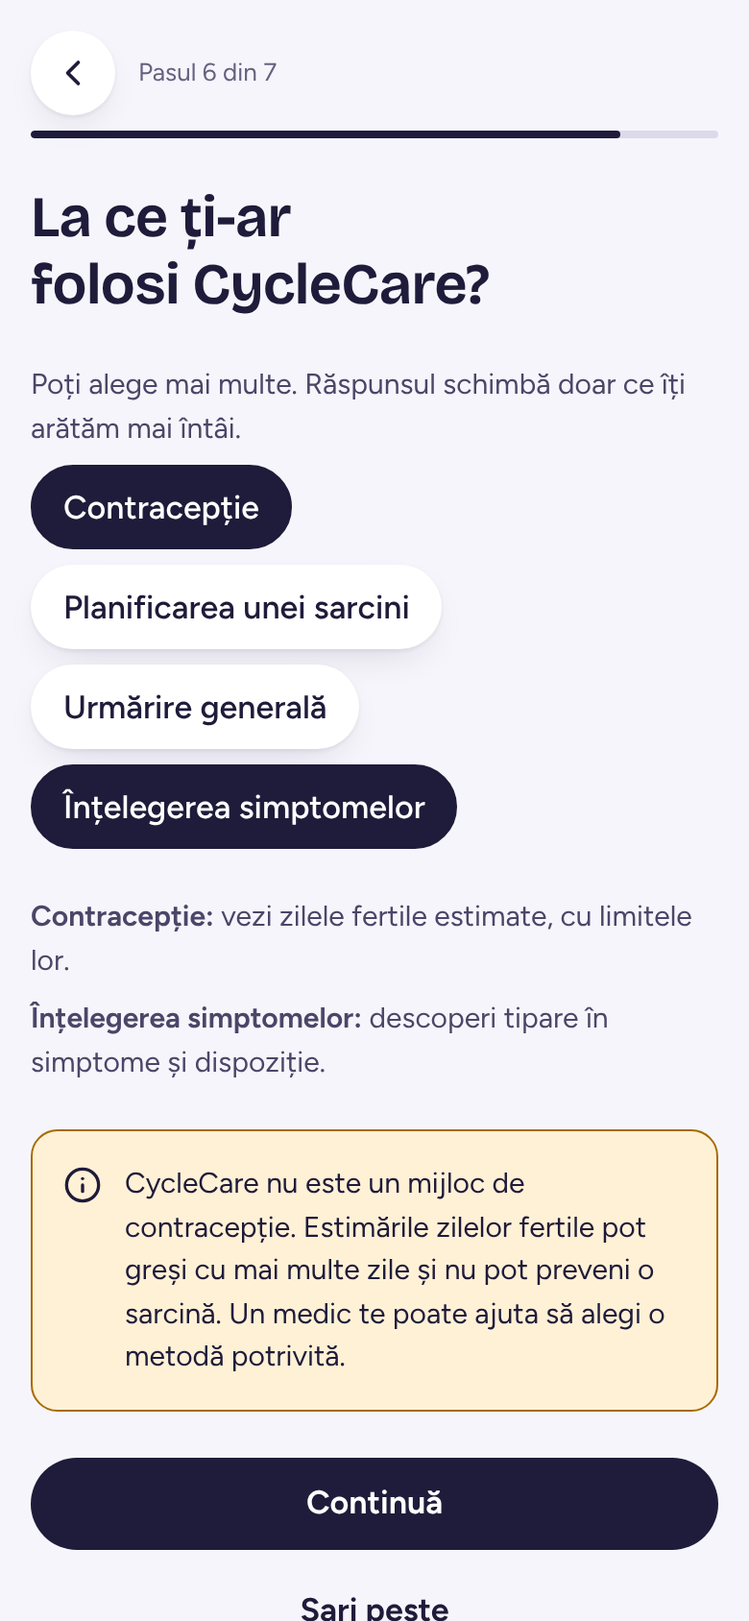
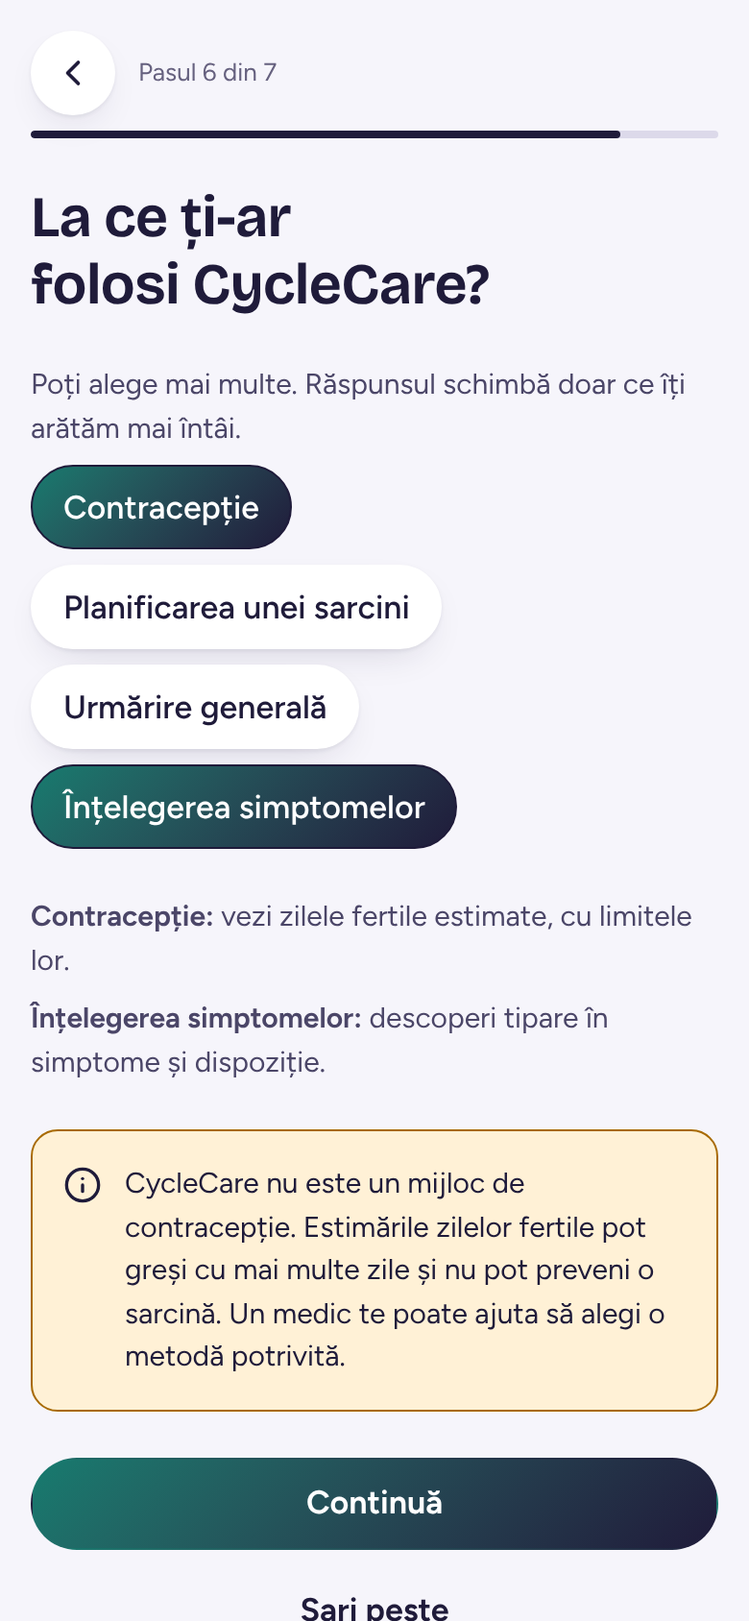
Make the gradient green, let the tab highlight glide, ring the next-period badge
The gradient on the primary button and chosen options now runs from a
green-teal (80% follicular green, 20% ink) into ink, the same in every
phase; token tests check the text on it at AA. The tab highlight is one
element that glides to the chosen tab, placed from the measured position
of the icon so it also works in the side rail. The next-period card gets
a ring round its badge showing how far the cycle has gone, drawn with the
dial's stroke animation. A long heading word may now break instead of
widening the card at the largest text size on a small phone.

Claude-Session: https://claude.ai/code/session_01YK9ibq7sAAhBnBr8T6xBgt

Changed region(s): [[0.0308, 0.8934, 0.8, 0.955], [0.0308, 0.4621, 0.5231, 0.5237], [0.0308, 0.2773, 0.3692, 0.3389]]

diff --git a/cyclecare/src/styles/depth.css b/cyclecare/src/styles/depth.css
@@ -9,13 +9,12 @@
 :root {
   --shadow-raised: 0 1px 2px color-mix(in srgb, var(--ink) 7%, transparent), 0 8px 22px -10px color-mix(in srgb, var(--ink) 20%, transparent);
   --shadow-hero: 0 2px 4px color-mix(in srgb, var(--ink) 6%, transparent), 0 18px 40px -16px color-mix(in srgb, var(--ink) 34%, transparent);
-  --ink-gradient: linear-gradient(155deg, var(--ink) 0%, var(--ink) 100%);
+  --ink-gradient: linear-gradient(135deg, color-mix(in srgb, var(--ink) 20%, var(--follicular)) 0%, var(--ink) 100%);
 }
-/* A custom property that holds var(--phase-c) is worked out where it is declared, so the two that use the
-   phase colour are declared again on .app, where it is set; on :root they are plain ink. */
+/* A custom property that holds var(--phase-c) is worked out where it is declared, so the shadow of the hero
+   card is declared again on .app, where the phase colour is set; on :root it is plain ink. */
 html[data-phase] .app {
   --shadow-hero: 0 2px 4px color-mix(in srgb, var(--ink) 6%, transparent), 0 18px 40px -16px color-mix(in srgb, var(--phase-c) 34%, transparent);
-  --ink-gradient: linear-gradient(155deg, color-mix(in srgb, var(--ink) 55%, var(--phase-c)) 0%, var(--ink) 90%);
 }
 
 /* ---------------------------------------------------------------- phase on the page */
@@ -57,12 +56,11 @@ html[data-phase] .app {
 
 /* ---------------------------------------------------------------- a small gradient on what is chosen
 
-   The dark "ink" of the primary button, the current tab and every selected choice is no longer one flat
-   colour: it starts 45% toward the colour of the current phase (the ink itself where there is none) and
-   settles into plain ink. The text on top keeps its contrast with the lightest end (checked in tokens.test.ts). */
+   The dark "ink" of the primary button and of every selected choice is no longer one flat colour: it runs
+   from a green-teal (80% of the follicular green, 20% ink) into plain ink. The green is the app's accent and
+   the same in every phase. The text on top keeps its contrast with the lightest end (tokens.test.ts). */
 
 .btn-primary,
-.tab[aria-current='page'] .tab-icon,
 .chip input:checked + .chip-face,
 .scale input:checked + .scale-face,
 .segmented input:checked + .segmented-face,
@@ -118,7 +116,6 @@ html[data-phase] .app {
     background: var(--surface);
   }
   .btn-primary,
-  .tab[aria-current='page'] .tab-icon,
   .chip input:checked + .chip-face,
   .scale input:checked + .scale-face,
   .segmented input:checked + .segmented-face,
@@ -139,7 +136,6 @@ html[data-phase] .app {
   }
   /* The system's own highlight colour, not a gradient. */
   .btn-primary,
-  .tab[aria-current='page'] .tab-icon,
   .chip input:checked + .chip-face,
   .scale input:checked + .scale-face,
   .segmented input:checked + .segmented-face,
@@ -426,4 +422,94 @@ html[data-phase] .app {
 .capy-full.empty-mascot {
   width: min(11rem, 62%);
   margin-inline: auto;
+}
+
+/* ---------------------------------------------------------------- the tab highlight glides
+
+   One highlight, behind the icons, that moves to the tab you pick instead of switching off on one and on
+   on the next. It is placed from the measured position of the current icon (Shell.tsx), so it is right in
+   the pill at the bottom of a phone and in the side rail of a wide screen. */
+
+.tabbar ul {
+  position: relative;
+}
+.tab-indicator {
+  position: absolute;
+  top: 0;
+  left: 0;
+  border-radius: var(--r-pill);
+  background-color: var(--ink);
+  background-image: var(--ink-gradient);
+  pointer-events: none;
+  transition: transform 0.5s var(--ease-spring);
+}
+.tab .tab-icon {
+  position: relative;
+  z-index: 1;
+}
+.tab[aria-current='page'] .tab-icon {
+  background: none;
+  color: var(--on-ink);
+}
+@media (prefers-contrast: more) {
+  .tab-indicator {
+    background-image: none;
+  }
+}
+@media (forced-colors: active) {
+  .tab-indicator {
+    background: Highlight;
+    forced-color-adjust: none;
+  }
+  .tab[aria-current='page'] .tab-icon {
+    color: HighlightText;
+  }
+}
+
+/* ---------------------------------------------------------------- progress round the badge
+
+   On the next-period card the badge has a ring that shows how far this cycle has gone. The arc is drawn
+   with the same stroke animation as the dial (motion.css); without motion it is simply there. */
+
+.icon-badge-wrap {
+  position: relative;
+  display: grid;
+  place-items: center;
+  flex: none;
+  width: 3.25rem;
+  height: 3.25rem;
+}
+.progress-ring {
+  position: absolute;
+  inset: 0;
+  width: 100%;
+  height: 100%;
+}
+.ring-track {
+  fill: none;
+  stroke: color-mix(in srgb, var(--c) 18%, transparent);
+  stroke-width: 3.5;
+}
+.ring-arc {
+  fill: none;
+  stroke: var(--c);
+  stroke-width: 3.5;
+  stroke-linecap: round;
+  stroke-dasharray: 1;
+  stroke-dashoffset: 0;
+}
+@media (forced-colors: active) {
+  .ring-track {
+    stroke: GrayText;
+  }
+  .ring-arc {
+    stroke: CanvasText;
+  }
+}
+
+/* A long heading word at the largest text size on a small phone may break instead of pushing the card wider. */
+.today-card-head h2 {
+  min-width: 0;
+  overflow-wrap: anywhere;
+  hyphens: auto;
 }

diff --git a/cyclecare/e2e/depth.spec.ts b/cyclecare/e2e/depth.spec.ts
@@ -59,12 +59,12 @@ test('"increase contrast" brings the outlines back and drops the colour', async 
 test('what is chosen carries a small gradient, and it goes away with "increase contrast"', async ({ page }) => {
   await page.emulateMedia({ colorScheme: 'light' });
   await startWithJournal(page);
-  const tabIcon = '.tab[aria-current="page"] .tab-icon';
+  const tabIcon = '.tab-indicator';
   expect(await style(page, tabIcon, 'background-image')).toContain('gradient');
   await tab(page, 'Jurnal');
   expect(await style(page, tabIcon, 'background-image')).toContain('gradient');
 
-  // It leans toward the colour of the phase (follicular green here), and so does the hero card's shadow.
+  // The gradient is the app's green in every phase; the hero card's shadow takes the colour of the phase.
   const app = (prop: string) => page.locator('.app').evaluate((el, p) => getComputedStyle(el).getPropertyValue(p), prop);
   expect((await app('--ink-gradient')).toUpperCase()).toContain('#14937C');
   expect((await app('--shadow-hero')).toUpperCase()).toContain('#14937C');
@@ -77,7 +77,7 @@ test('under the dial, each block is a card with a badge and, for the next period
   await startWithJournal(page); // 15 November, the next period expected in 17 days
   const next = page.locator('.page[data-active] .today-card[data-kind="next"]');
   await expect(next.getByRole('heading', { name: 'Următoarea menstruație' })).toBeVisible();
-  await expect(next.locator('.icon-badge')).toHaveAttribute('aria-hidden', 'true');
+  await expect(next.locator('.icon-badge-wrap')).toHaveAttribute('aria-hidden', 'true');
   const figure = next.locator('.figure');
   await expect(figure).toHaveAttribute('aria-hidden', 'true');
   await expect(figure.locator('.figure-num')).toHaveText('17');
@@ -132,4 +132,32 @@ test('with nothing to show yet, Statistics has the capybara waving, once, and no
   await expect(empty.locator('svg.capy-full')).toHaveAttribute('aria-hidden', 'true');
   const ids = await page.evaluate(() => [...document.querySelectorAll('[id]')].map((el) => el.id));
   expect(ids.filter((id, i) => ids.indexOf(id) !== i)).toEqual([]);
+});
+
+test('the tab highlight sits behind the current icon and glides to the next one', async ({ page }) => {
+  await page.setViewportSize({ width: 390, height: 844 });
+  await startWithJournal(page);
+  const box = async (selector: string) => (await page.locator(selector).first().boundingBox())!;
+  const center = (b: { x: number; width: number }) => b.x + b.width / 2;
+
+  const indicator = () => box('.tab-indicator');
+  const icon = (name: string) => box(`.tab:has-text("${name}") .tab-icon`);
+  expect(Math.abs(center(await indicator()) - center(await icon('Azi')))).toBeLessThan(1.5);
+  await expect(page.locator('.tab-indicator')).toHaveCount(1);
+
+  await tab(page, 'Jurnal');
+  // At rest again (the page clock is fake, so wait for the real transition to end).
+  await expect.poll(async () => Math.abs(center(await indicator()) - center(await icon('Jurnal'))), { timeout: 3000 }).toBeLessThan(1.5);
+  await tab(page, 'Statistici');
+  await expect.poll(async () => Math.abs(center(await indicator()) - center(await icon('Statistici'))), { timeout: 3000 }).toBeLessThan(1.5);
+});
+
+test('on the next-period card, a ring round the badge shows how far the cycle has gone', async ({ page }) => {
+  await startWithJournal(page); // day 12 of a 28-day cycle
+  const ring = page.locator('.page[data-active] .today-card[data-kind="next"] .progress-ring');
+  await expect(ring).toHaveAttribute('aria-hidden', 'true');
+  await expect(ring.locator('.ring-arc')).toHaveCount(1);
+  await expect(ring.locator('.ring-track')).toHaveCount(1);
+  // The other cards have no ring.
+  await expect(page.locator('.page[data-active] .today-card[data-kind="fertility"] .progress-ring')).toHaveCount(0);
 });

diff --git a/cyclecare/src/ui/Shell.tsx b/cyclecare/src/ui/Shell.tsx
@@ -1,5 +1,5 @@
 import { CalendarDays, ChartColumn, ChevronLeft, CircleDot, Lightbulb, NotebookPen, Settings, type LucideIcon } from 'lucide-react';
-import { useLayoutEffect, useRef, type ReactNode } from 'react';
+import { useLayoutEffect, useRef, useState, type ReactNode } from 'react';
 import { goBack, navigate, useRoute, type Route } from '../app/router';
 import { dismissToast, useToasts } from '../app/ui';
 import { strings } from '../i18n';
@@ -127,9 +127,35 @@ const TABS: TabItem[] = [
 
 export function TabBar({ tabs = TABS }: { tabs?: TabItem[] }) {
   const route = useRoute();
+  const listRef = useRef<HTMLUListElement>(null);
+  // Where the current tab's icon sits, so the highlight can glide there from the tab it was on.
+  const [spot, setSpot] = useState<{ x: number; y: number; w: number; h: number } | null>(null);
+  useLayoutEffect(() => {
+    const list = listRef.current;
+    if (!list) return;
+    const measure = () => {
+      const icon = list.querySelector<HTMLElement>('.tab[aria-current="page"] .tab-icon');
+      if (!icon) return setSpot(null);
+      const l = list.getBoundingClientRect();
+      const i = icon.getBoundingClientRect();
+      const next = { x: Math.round((i.left - l.left) * 10) / 10, y: Math.round((i.top - l.top) * 10) / 10, w: i.width, h: i.height };
+      setSpot((was) => (was && was.x === next.x && was.y === next.y && was.w === next.w && was.h === next.h ? was : next));
+    };
+    measure();
+    const watch = new ResizeObserver(measure);
+    watch.observe(list);
+    return () => watch.disconnect();
+  }, [route, tabs.length]);
   return (
     <nav className="tabbar" aria-label={strings().nav.label}>
-      <ul style={tabs.length === 5 ? undefined : { gridTemplateColumns: `repeat(${tabs.length}, minmax(0, 1fr))` }}>
+      <ul ref={listRef} style={tabs.length === 5 ? undefined : { gridTemplateColumns: `repeat(${tabs.length}, minmax(0, 1fr))` }}>
+        {spot && (
+          <span
+            className="tab-indicator"
+            aria-hidden="true"
+            style={{ width: spot.w, height: spot.h, transform: `translate(${spot.x}px, ${spot.y}px)` }}
+          />
+        )}
         {tabs.map(({ route: to, icon: Icon, label }) => (
           <li key={to}>
             <a

diff --git a/cyclecare/src/screens/Today.tsx b/cyclecare/src/screens/Today.tsx
@@ -24,14 +24,31 @@ import { summarizePregnancyRisk } from '../domain/pregnancyRisk';
 import { ChanceScale, RiskIcons } from '../ui/PregnancyRisk';
 
 /** The head of a card on this screen: a round badge in the colour of the card, then its heading. */
-function CardHead({ icon: Icon, id, children }: { icon: LucideIcon; id: string; children: ReactNode }) {
+function CardHead({ icon: Icon, id, progress, children }: { icon: LucideIcon; id: string; progress?: number; children: ReactNode }) {
   return (
     <div className="today-card-head">
-      <span className="icon-badge" aria-hidden="true">
-        <Icon size={20} />
+      <span className="icon-badge-wrap" aria-hidden="true">
+        {progress !== undefined && <ProgressRing progress={progress} />}
+        <span className="icon-badge">
+          <Icon size={20} />
+        </span>
       </span>
       <h2 id={id}>{children}</h2>
     </div>
+  );
+}
+
+/** A ring round the badge, filled as far as the cycle has gone (decoration: the figure and the sentences carry the facts). */
+function ProgressRing({ progress }: { progress: number }) {
+  const p = Math.min(0.995, Math.max(0.02, progress));
+  const r = 24;
+  const angle = 2 * Math.PI * p;
+  const end = `${(26 + r * Math.sin(angle)).toFixed(2)} ${(26 - r * Math.cos(angle)).toFixed(2)}`;
+  return (
+    <svg className="progress-ring" viewBox="0 0 52 52" aria-hidden="true" focusable="false">
+      <circle className="ring-track" cx="26" cy="26" r={r} />
+      <path className="ring-arc" pathLength={1} d={`M26 ${26 - r}A${r} ${r} 0 ${angle > Math.PI ? 1 : 0} 1 ${end}`} />
+    </svg>
   );
 }
 
@@ -97,7 +114,11 @@ export function TodayScreen() {
 
   const nextBlock = current && forecast && (
     <section aria-labelledby="next-heading" className="card today-card stack stack-2" data-kind="next" data-tap="">
-      <CardHead icon={Droplets} id="next-heading">
+      <CardHead
+        icon={Droplets}
+        id="next-heading"
+        progress={Math.max(0, diffDays(today, current.start)) / Math.max(1, diffDays(current.expectedNext, current.start))}
+      >
         {s.today.next.heading}
       </CardHead>
       {late ? (

diff --git a/cyclecare/tests/tokens.test.ts b/cyclecare/tests/tokens.test.ts
@@ -49,14 +49,14 @@ const PAIRS: Array<[string, string, number]> = [
   ['capy-fur', 'surface', 3],
 ];
 
-/** The mix used by --ink-gradient at its lightest end: ink 55%, phase colour 45% (sRGB, like color-mix). */
-function inkTowards(index: 0 | 1, phase: string): string {
-  const [a, b] = [colors.ink![index], colors[phase]![index]].map((h) => [1, 3, 5].map((i) => parseInt(h.slice(i, i + 2), 16)));
+/** The lightest end of --ink-gradient: 20% ink, 80% follicular green (sRGB, like color-mix). */
+function gradientStart(index: 0 | 1): string {
+  const [a, b] = [colors.ink![index], colors.follicular![index]].map((h) => [1, 3, 5].map((i) => parseInt(h.slice(i, i + 2), 16)));
   return (
     '#' +
     a!
       .map((v, i) =>
-        Math.round(v * 0.55 + b![i]! * 0.45)
+        Math.round(v * 0.2 + b![i]! * 0.8)
           .toString(16)
           .padStart(2, '0'),
       )
@@ -69,12 +69,9 @@ describe('design tokens', () => {
     ['light', 0],
     ['dark', 1],
   ] as const) {
-    it(`keeps the text on the ink gradient readable in the ${mode} theme`, () => {
-      const failures = PHASES.flatMap((p) => {
-        const ratio = contrast(colors['on-ink']![index], inkTowards(index, p));
-        return ratio >= 7 ? [] : [`on-ink on ink toward ${p}: ${ratio.toFixed(2)} < 7`];
-      });
-      expect(failures).toEqual([]);
+    it(`keeps the text on the green gradient readable (AA) in the ${mode} theme`, () => {
+      const ratio = contrast(colors['on-ink']![index], gradientStart(index));
+      expect(ratio, `on-ink on the gradient start: ${ratio.toFixed(2)}`).toBeGreaterThanOrEqual(4.5);
     });
   }
 

diff --git a/cyclecare/src/styles/motion.css b/cyclecare/src/styles/motion.css
@@ -174,6 +174,12 @@
     --n: 7;
   }
 
+  /* ---- Today: the ring round the badge fills up to where the cycle has got to */
+  .page[data-reveal] .ring-arc {
+    stroke-dashoffset: 1;
+    animation: dial-draw 1s var(--ease-out) 0.35s both;
+  }
+
   /* ---- Today: the big number on a card settles in */
   .page[data-reveal] .figure-num {
     display: inline-block;

diff --git a/cyclecare/README.md b/cyclecare/README.md
@@ -126,24 +126,24 @@ Fluxul din `.github/workflows/cyclecare-pages.yml` rulează verificările și pu
 
 ## Cum sunt acoperite cerințele
 
-| Cerință                            | În aplicație                                                                                                                                                                                                   | Cod                                                                                                          | Teste                                                                                          |
-| ---------------------------------- | -------------------------------------------------------------------------------------------------------------------------------------------------------------------------------------------------------------- | ------------------------------------------------------------------------------------------------------------ | ---------------------------------------------------------------------------------------------- |
-| 1. Onboarding                      | Patru întrebări, fiecare cu „sari peste”; consimțământ explicit, cu două căsuțe nebifate                                                                                                                       | `src/screens/Onboarding.tsx`                                                                                 | `e2e/onboarding.spec.ts`                                                                       |
-| 2. Calendar și faze                | Patru faze colorate distinct, zile fertile și ovulație estimate cu avertisment, interval pentru următoarea menstruație, medie mobilă pe 6 cicluri                                                              | `src/domain/cycles.ts`, `src/domain/prediction.ts`, `src/screens/Calendar.tsx`, `src/ui/CycleDial.tsx`       | `tests/cycles.test.ts`, `tests/prediction.test.ts`, `e2e/journal.spec.ts`                      |
-| 3. Jurnal zilnic                   | Flux, 17 simptome cu intensitate, dispoziție, energie, temperatură bazală, secreție cervicală, note; import de temperaturi din fișier                                                                          | `src/screens/Journal.tsx`, `src/domain/importCsv.ts`                                                         | `tests/importCsv.test.ts`, `e2e/journal.spec.ts`, `e2e/data.spec.ts`                           |
-| 4. Sfaturi personalizate           | Pe faza curentă (alimentație, mișcare, somn, piele), pe simptomele recente, semnalizări pentru simptome neobișnuite sau persistente                                                                            | `src/content/ro/tips.ts`, `src/domain/insights.ts`, `src/screens/Tips.tsx`                                   | `tests/insights.test.ts`, `tests/docs.test.ts`                                                 |
-| 5. Memento-uri                     | Menstruație, zile fertile, pilulă și alte medicamente; ore, zile și repetare alese de persoană; text discret                                                                                                   | `src/domain/reminders.ts`, `src/app/lifecycle.ts`, `src/screens/Settings.tsx`                                | `tests/reminders.test.ts`, `e2e/data.spec.ts`                                                  |
-| 6. Statistici și rapoarte          | Grafice pentru durata ciclurilor, simptome și dispoziție, fiecare cu tabel; raport PDF generat pe dispozitiv                                                                                                   | `src/domain/stats.ts`, `src/ui/charts.tsx`, `src/pdf/`                                                       | `tests/stats.test.ts`, `tests/pdf.test.ts`, `e2e/data.spec.ts`                                 |
-| 7. Confidențialitate și securitate | AES-256-GCM în repaus, PIN, biometrie, blocare automată, ștergerea tuturor datelor, partajare doar cu partenerul ales, criptată cap-coadă                                                                      | `src/storage/`, `src/app/store.ts`                                                                           | `tests/vault.test.ts`, `e2e/security.spec.ts`, `e2e/quality.spec.ts`                           |
-| 8. Design și accesibilitate        | Paletă calmă verificată pentru contrast și daltonism, mod întunecat, text scalabil, cititoare de ecran, română și engleză, cu loc pentru alte limbi                                                            | `src/styles/`, `src/i18n/`                                                                                   | `tests/tokens.test.ts`, `e2e/quality.spec.ts`                                                  |
-| Viață intimă și risc de sarcină    | Contact intim în jurnal (fel, contracepție, prezervativ rupt), inimioare în calendar, risc de sarcină pe „Azi”, cu contracepția de urgență și testul                                                           | `src/domain/pregnancyRisk.ts`, `src/screens/Journal.tsx`, `src/ui/PregnancyRisk.tsx`                         | `tests/pregnancyRisk.test.ts`, `e2e/intimacy.spec.ts`                                          |
-| Profil                             | Nume sau poreclă întrebat la prima deschidere (opțional), poză rotundă în colțul din dreapta sus (singurul buton de acolo), ecran pentru nume, poză și setări                                                  | `src/screens/Profile.tsx`, `src/ui/Avatar.tsx`, `src/app/photo.ts`, `src/domain/user.ts`                     | `tests/user.test.ts`, `e2e/profile.spec.ts`                                                    |
-| Modul Partener                     | Invitație cu cod și cifre de verificare, permisiuni, sincronizare criptată cap-coadă, vizualizare doar pentru citire pe telefonul partenerului                                                                 | `src/partner/`, `src/domain/partner.ts`, `src/screens/PartnerScreens.tsx`, `server/relay.ts`                 | `tests/partner.test.ts`, `tests/relay.test.ts`, `e2e/partner.spec.ts`                          |
-| Copia de siguranță                 | Cod de recuperare, fișier criptat `.cyclecare`, copie automată criptată pe server cu acord separat, restaurare, versiuni în timp                                                                               | `src/backup/`, `src/screens/BackupSettings.tsx`, `server/relay.ts`                                           | `tests/backup.test.ts`, `tests/relay.test.ts`, `e2e/backup.spec.ts`                            |
-| Culoare și adâncime                | Fundal tintat de faza curentă, carduri ridicate cu umbre moi în trei feluri (ridicat, principal, plat), contur discret în tema întunecată, contur la „Contrast mărit”                                          | `src/app/phaseTint.ts`, `src/styles/depth.css`, `src/styles/tokens.json`                                     | `tests/tokens.test.ts`, `e2e/depth.spec.ts`                                                    |
-| Un strat de finețe vizuală         | Butoane umplute în loc de contur, bară de file plutitoare, carduri cu insigne și cifre mari sub cerc, grafice cu gradient, calendar pe card, capibara în stările goale                                         | `src/styles/depth.css`, `src/screens/Today.tsx`, `src/ui/charts.tsx`                                         | `e2e/depth.spec.ts`                                                                            |
-| Navigare și mișcare                | Stivă de ecrane cu tranziții, glisare înapoi, ferestre care se trag în jos, sticlă, reacție la apăsare, apariție în trepte, cerc care se desenează, grafice care cresc; totul se oprește la „Reducere mișcare” | `src/app/router.ts`, `src/ui/Navigator.tsx`, `src/ui/motion.ts`, `src/styles/motion.css`, `src/ui/Sheet.tsx` | `tests/router.test.ts`, `tests/motion.test.ts`, `e2e/motion.spec.ts`, `e2e/animations.spec.ts` |
-| Instalare și producție             | Manifest, pictograme, pornire fără internet, actualizări acceptate de persoană, pagină 404, tratarea erorilor, anulare, validări lângă câmp                                                                    | `vite.config.ts`, `public/sw.js`, `src/app/pwa.ts`, `src/app/errors.ts`                                      | `e2e/pwa.spec.ts`, `e2e/polish.spec.ts`                                                        |
+| Cerință                            | În aplicație                                                                                                                                                                                                                                      | Cod                                                                                                          | Teste                                                                                          |
+| ---------------------------------- | ------------------------------------------------------------------------------------------------------------------------------------------------------------------------------------------------------------------------------------------------- | ------------------------------------------------------------------------------------------------------------ | ---------------------------------------------------------------------------------------------- |
+| 1. Onboarding                      | Patru întrebări, fiecare cu „sari peste”; consimțământ explicit, cu două căsuțe nebifate                                                                                                                                                          | `src/screens/Onboarding.tsx`                                                                                 | `e2e/onboarding.spec.ts`                                                                       |
+| 2. Calendar și faze                | Patru faze colorate distinct, zile fertile și ovulație estimate cu avertisment, interval pentru următoarea menstruație, medie mobilă pe 6 cicluri                                                                                                 | `src/domain/cycles.ts`, `src/domain/prediction.ts`, `src/screens/Calendar.tsx`, `src/ui/CycleDial.tsx`       | `tests/cycles.test.ts`, `tests/prediction.test.ts`, `e2e/journal.spec.ts`                      |
+| 3. Jurnal zilnic                   | Flux, 17 simptome cu intensitate, dispoziție, energie, temperatură bazală, secreție cervicală, note; import de temperaturi din fișier                                                                                                             | `src/screens/Journal.tsx`, `src/domain/importCsv.ts`                                                         | `tests/importCsv.test.ts`, `e2e/journal.spec.ts`, `e2e/data.spec.ts`                           |
+| 4. Sfaturi personalizate           | Pe faza curentă (alimentație, mișcare, somn, piele), pe simptomele recente, semnalizări pentru simptome neobișnuite sau persistente                                                                                                               | `src/content/ro/tips.ts`, `src/domain/insights.ts`, `src/screens/Tips.tsx`                                   | `tests/insights.test.ts`, `tests/docs.test.ts`                                                 |
+| 5. Memento-uri                     | Menstruație, zile fertile, pilulă și alte medicamente; ore, zile și repetare alese de persoană; text discret                                                                                                                                      | `src/domain/reminders.ts`, `src/app/lifecycle.ts`, `src/screens/Settings.tsx`                                | `tests/reminders.test.ts`, `e2e/data.spec.ts`                                                  |
+| 6. Statistici și rapoarte          | Grafice pentru durata ciclurilor, simptome și dispoziție, fiecare cu tabel; raport PDF generat pe dispozitiv                                                                                                                                      | `src/domain/stats.ts`, `src/ui/charts.tsx`, `src/pdf/`                                                       | `tests/stats.test.ts`, `tests/pdf.test.ts`, `e2e/data.spec.ts`                                 |
+| 7. Confidențialitate și securitate | AES-256-GCM în repaus, PIN, biometrie, blocare automată, ștergerea tuturor datelor, partajare doar cu partenerul ales, criptată cap-coadă                                                                                                         | `src/storage/`, `src/app/store.ts`                                                                           | `tests/vault.test.ts`, `e2e/security.spec.ts`, `e2e/quality.spec.ts`                           |
+| 8. Design și accesibilitate        | Paletă calmă verificată pentru contrast și daltonism, mod întunecat, text scalabil, cititoare de ecran, română și engleză, cu loc pentru alte limbi                                                                                               | `src/styles/`, `src/i18n/`                                                                                   | `tests/tokens.test.ts`, `e2e/quality.spec.ts`                                                  |
+| Viață intimă și risc de sarcină    | Contact intim în jurnal (fel, contracepție, prezervativ rupt), inimioare în calendar, risc de sarcină pe „Azi”, cu contracepția de urgență și testul                                                                                              | `src/domain/pregnancyRisk.ts`, `src/screens/Journal.tsx`, `src/ui/PregnancyRisk.tsx`                         | `tests/pregnancyRisk.test.ts`, `e2e/intimacy.spec.ts`                                          |
+| Profil                             | Nume sau poreclă întrebat la prima deschidere (opțional), poză rotundă în colțul din dreapta sus (singurul buton de acolo), ecran pentru nume, poză și setări                                                                                     | `src/screens/Profile.tsx`, `src/ui/Avatar.tsx`, `src/app/photo.ts`, `src/domain/user.ts`                     | `tests/user.test.ts`, `e2e/profile.spec.ts`                                                    |
+| Modul Partener                     | Invitație cu cod și cifre de verificare, permisiuni, sincronizare criptată cap-coadă, vizualizare doar pentru citire pe telefonul partenerului                                                                                                    | `src/partner/`, `src/domain/partner.ts`, `src/screens/PartnerScreens.tsx`, `server/relay.ts`                 | `tests/partner.test.ts`, `tests/relay.test.ts`, `e2e/partner.spec.ts`                          |
+| Copia de siguranță                 | Cod de recuperare, fișier criptat `.cyclecare`, copie automată criptată pe server cu acord separat, restaurare, versiuni în timp                                                                                                                  | `src/backup/`, `src/screens/BackupSettings.tsx`, `server/relay.ts`                                           | `tests/backup.test.ts`, `tests/relay.test.ts`, `e2e/backup.spec.ts`                            |
+| Culoare și adâncime                | Fundal tintat de faza curentă, carduri ridicate cu umbre moi în trei feluri (ridicat, principal, plat), contur discret în tema întunecată, contur la „Contrast mărit”                                                                             | `src/app/phaseTint.ts`, `src/styles/depth.css`, `src/styles/tokens.json`                                     | `tests/tokens.test.ts`, `e2e/depth.spec.ts`                                                    |
+| Un strat de finețe vizuală         | Butoane umplute în loc de contur, gradient verde pe ce este ales, bară de file plutitoare cu indicator care alunecă, carduri cu insigne, inel de progres și cifre mari sub cerc, grafice cu gradient, calendar pe card, capibara în stările goale | `src/styles/depth.css`, `src/screens/Today.tsx`, `src/ui/charts.tsx`                                         | `e2e/depth.spec.ts`                                                                            |
+| Navigare și mișcare                | Stivă de ecrane cu tranziții, glisare înapoi, ferestre care se trag în jos, sticlă, reacție la apăsare, apariție în trepte, cerc care se desenează, grafice care cresc; totul se oprește la „Reducere mișcare”                                    | `src/app/router.ts`, `src/ui/Navigator.tsx`, `src/ui/motion.ts`, `src/styles/motion.css`, `src/ui/Sheet.tsx` | `tests/router.test.ts`, `tests/motion.test.ts`, `e2e/motion.spec.ts`, `e2e/animations.spec.ts` |
+| Instalare și producție             | Manifest, pictograme, pornire fără internet, actualizări acceptate de persoană, pagină 404, tratarea erorilor, anulare, validări lângă câmp                                                                                                       | `vite.config.ts`, `public/sw.js`, `src/app/pwa.ts`, `src/app/errors.ts`                                      | `e2e/pwa.spec.ts`, `e2e/polish.spec.ts`                                                        |
 
 ## Confidențialitate și securitate, pe scurt
 

diff --git a/cyclecare/docs/01-ecrane-si-navigare.md b/cyclecare/docs/01-ecrane-si-navigare.md
@@ -349,7 +349,9 @@ Aplicația are un cadru fix: fiecare ecran derulează în propriul container, su
 | Grafice cu umplere | Barele pentru durata ciclurilor merg de la violet la ardezie, graficul de temperatură are o zonă fină sub linie, iar cadrele graficelor sunt ridicate ca niște carduri. Identificatorii gradientelor vin din `useId`, deci rămân unici chiar dacă filele rămân montate |
 | Calendar | Luna stă pe un card. Benzile fazelor au un gradient fin, iar șinele lor se rotunjesc la capetele unei serii; ziua de azi este un cerc plin (o zi cu semn propriu își păstrează semnul și sublinierea). Șina, semnele și legenda rămân: ele poartă faza și în afară de culoare |
 | Stări goale | Fără date, capibara salută în „Statistici” în loc de o simplă linie de text |
-| Gradient pe ce este ales | Butonul principal, fila curentă și orice alegere bifată (chip, treaptă, comutator) nu mai sunt o singură culoare: pornesc 45% spre culoarea fazei curente și se așază în culoarea obișnuită (în tema deschisă, de la bleumarin spre verdele, roșul, chihlimbarul sau violetul fazei; în cea întunecată, de la lavandă spre aceeași nuanță). Fără fază, rămâne culoarea simplă. Contrastul textului cu cel mai luminos capăt e verificat în ambele teme (`tests/tokens.test.ts`); la „Contrast mărit” și la culori forțate gradientul dispare. `--ink-gradient` în `src/styles/depth.css` |
+| Gradient verde pe ce este ales | Butonul principal și orice alegere bifată (chip, treaptă, comutator) nu mai sunt o singură culoare: merg de la un verde-turcoaz (80% verdele fazei foliculare, 20% culoarea textului) în culoarea obișnuită. Verdele e accentul aplicației și e același în toate fazele; culoarea fazei rămâne pe fundal, cărți și umbre. Contrastul textului cu cel mai luminos capăt e verificat în ambele teme (AA, `tests/tokens.test.ts`); la „Contrast mărit” și la culori forțate gradientul dispare. `--ink-gradient` în `src/styles/depth.css` |
+| Indicatorul de file alunecă | Evidențierea filei curente nu mai apare și dispare pe rând: este una singură, în spatele iconițelor, care alunecă (0,5 s, cu un mic arc) spre fila aleasă. Se așază după poziția măsurată a iconiței curente (`src/ui/Shell.tsx`), deci e corect și în pastila de jos, și în coloana din stânga de pe ecrane late; fără mișcare sare direct |
+| Inel de progres | Pe cardul „Următoarea menstruație”, insigna are în jur un inel umplut cât a trecut din ciclu (ziua curentă din lungimea estimată). Se desenează cu aceeași animație ca cercul de pe „Azi”; este doar decor (`aria-hidden`), faptele sunt în cifră și în propoziții |
 | Simțul de aplicație nativă | Pe telefon, o apăsare lungă sau o tragere peste interfață nu selectează text și nu deschide meniul „Copiază” al browserului (`user-select: none`, `-webkit-touch-callout: none`, iar pe Android oprirea evenimentului `contextmenu` pentru degete, nu pentru mouse). Rămân selectabile câmpurile în care se scrie, codul de recuperare (care trebuie copiat) și declarația de confidențialitate (`.selectable`); `src/ui/native.ts`, `src/styles/base.css` |
 | Sticlă | Bara de navigare (după derulare), bara de file, ferestrele și mesajele scurte lasă să se vadă, estompat, ce este dedesubt. Culorile sunt aceleași; fără suport pentru estompare, sau cu „Reducere transparență” ori „Contrast mărit”, suprafețele sunt opace |
 | Apăsarea | Butoanele, pastilele și zilele se micșorează ușor (aproximativ 0,97; cele mici ceva mai mult) și revin cu un arc; rândurile de listă se evidențiază. Cardurile și blocurile de pe „Azi” (următoarea menstruație, fertilitate, risc de sarcină, cum e azi, sfatul zilei), centrul cercului, „De ce ajută?” și butoanele capibarei se micșorează mai discret (0,985, respectiv 0,97) |
